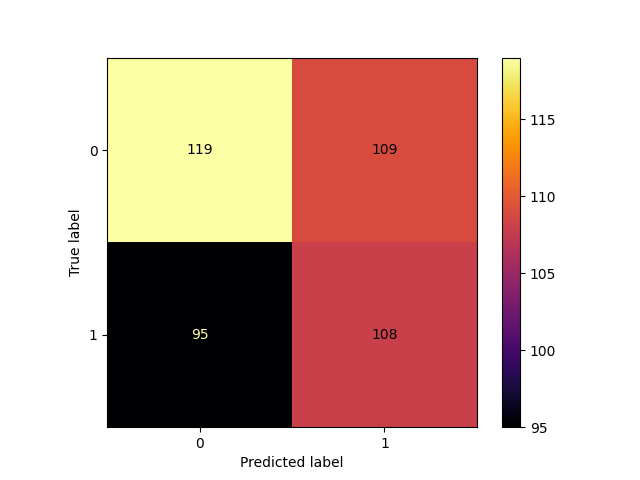
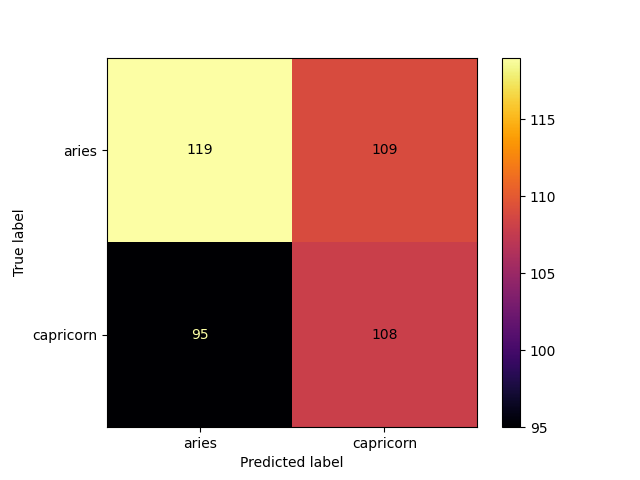
update labels for binary

diff --git a/Assignment_5/binaryClassificationModel.py b/Assignment_5/binaryClassificationModel.py
@@ -47,7 +47,7 @@ def train_naive_bayes_model(dataset, data_format, sign1, sign2):
     cm = confusion_matrix(y_test, y_pred)
 
     # Visualizing confusion matrix, changing cmap for readability. 
-    vis = ConfusionMatrixDisplay(confusion_matrix=cm)
+    vis = ConfusionMatrixDisplay(confusion_matrix=cm, display_labels=classifier.classes_)
     vis.plot(cmap='inferno')
     plt.savefig('figures/confusion_matrix.png')
     plt.close()
